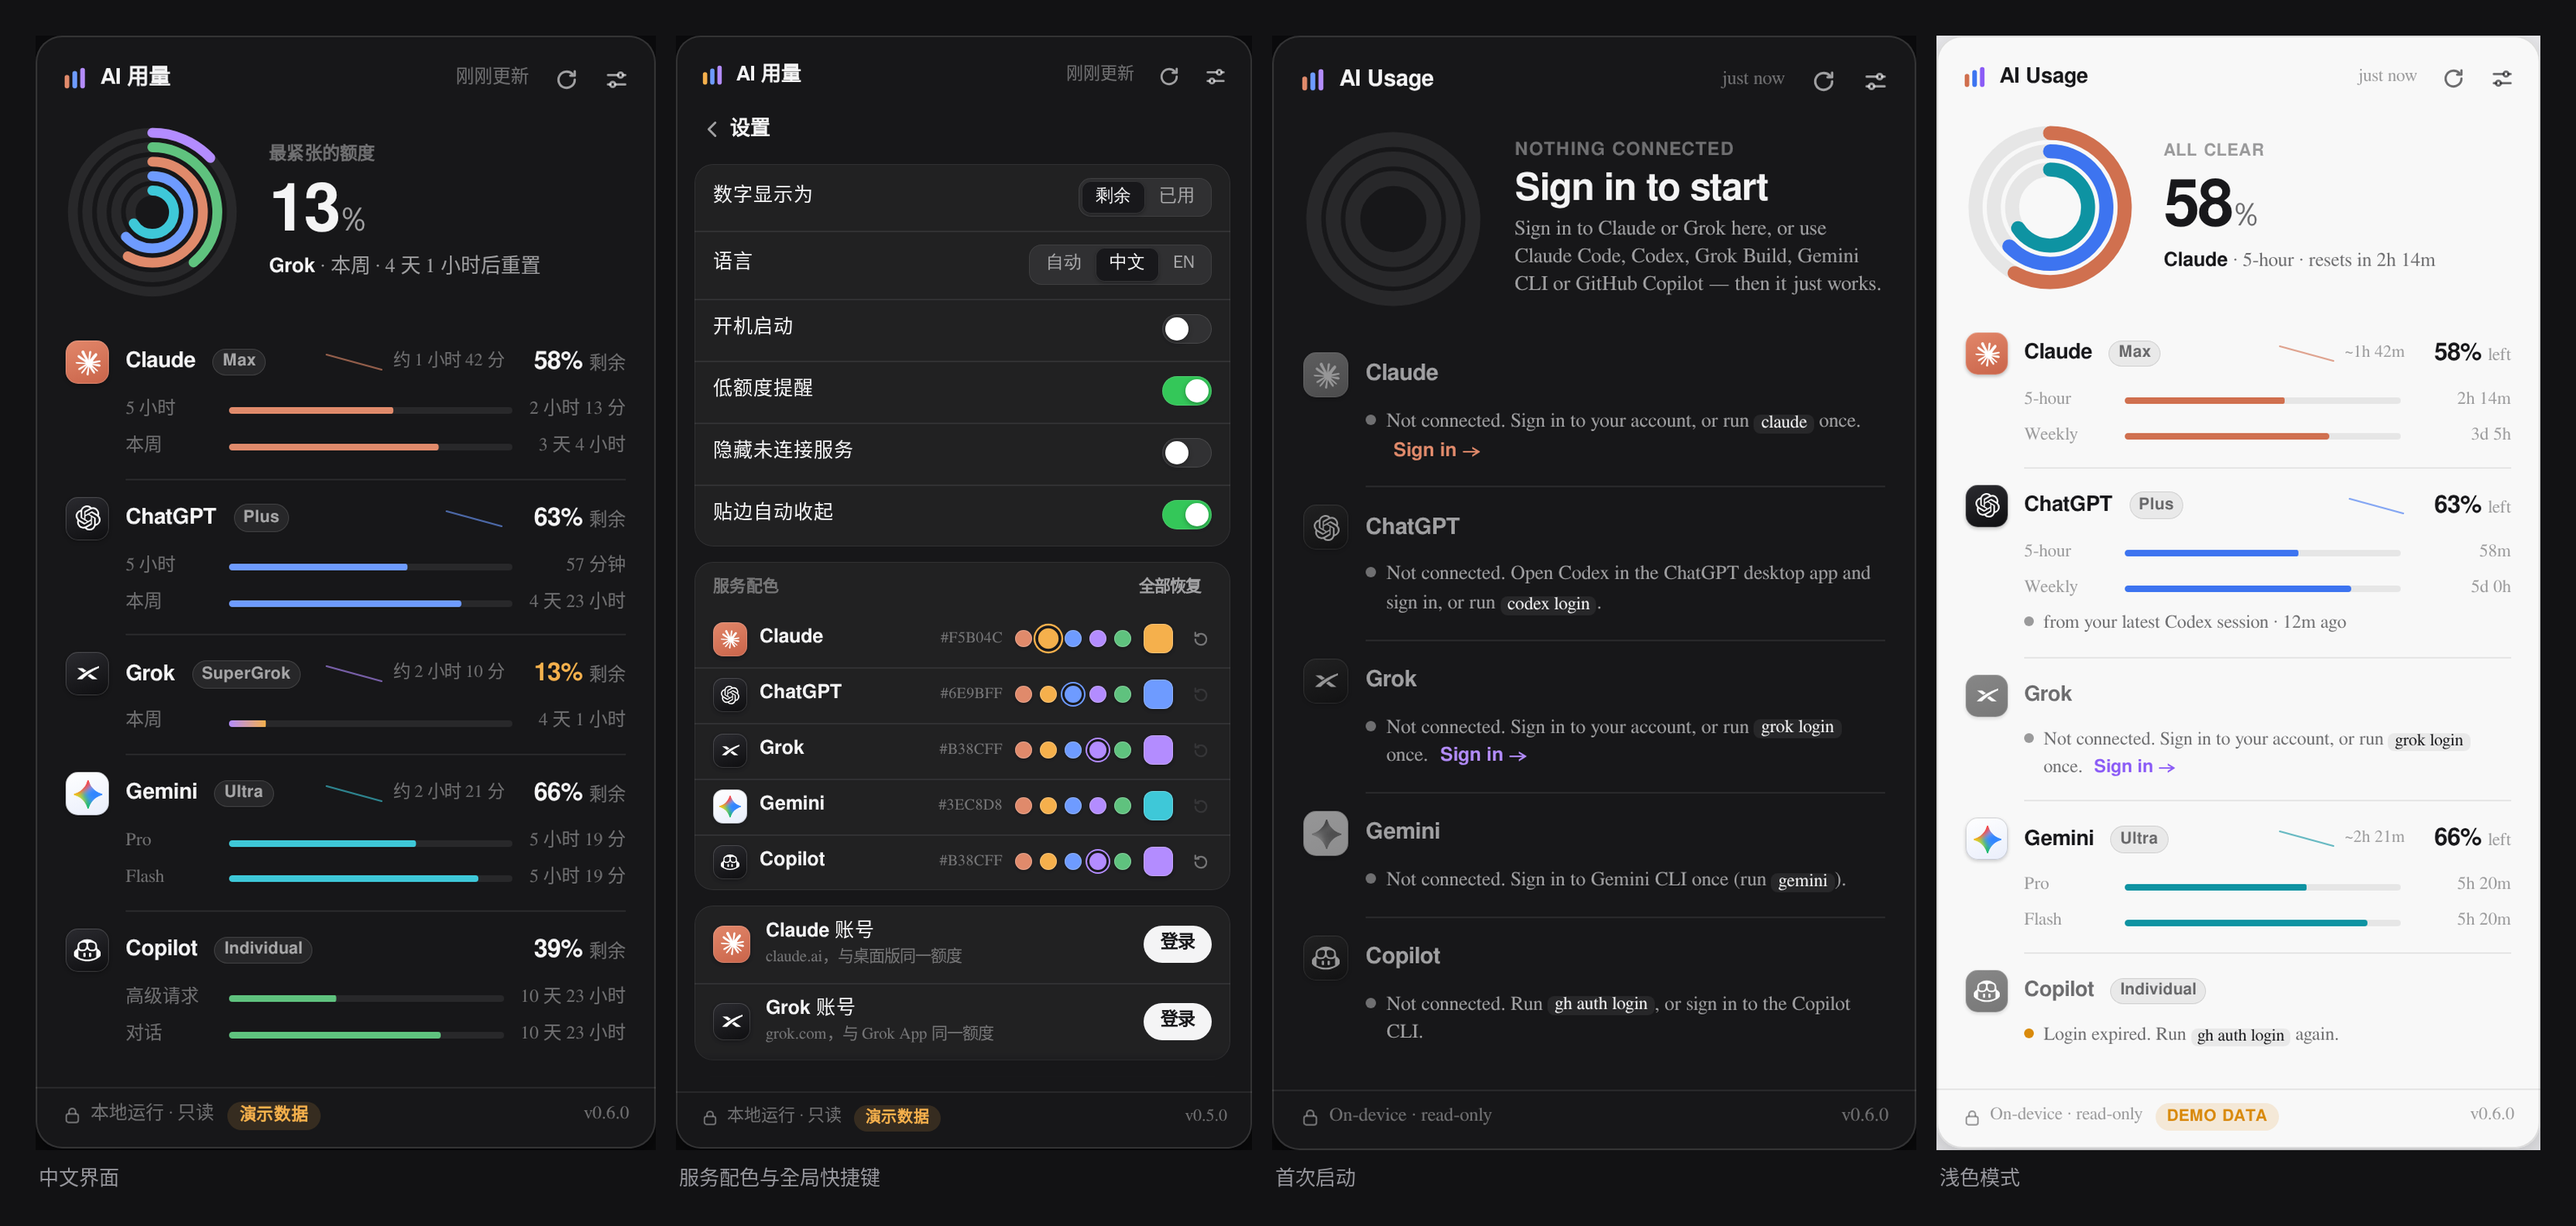
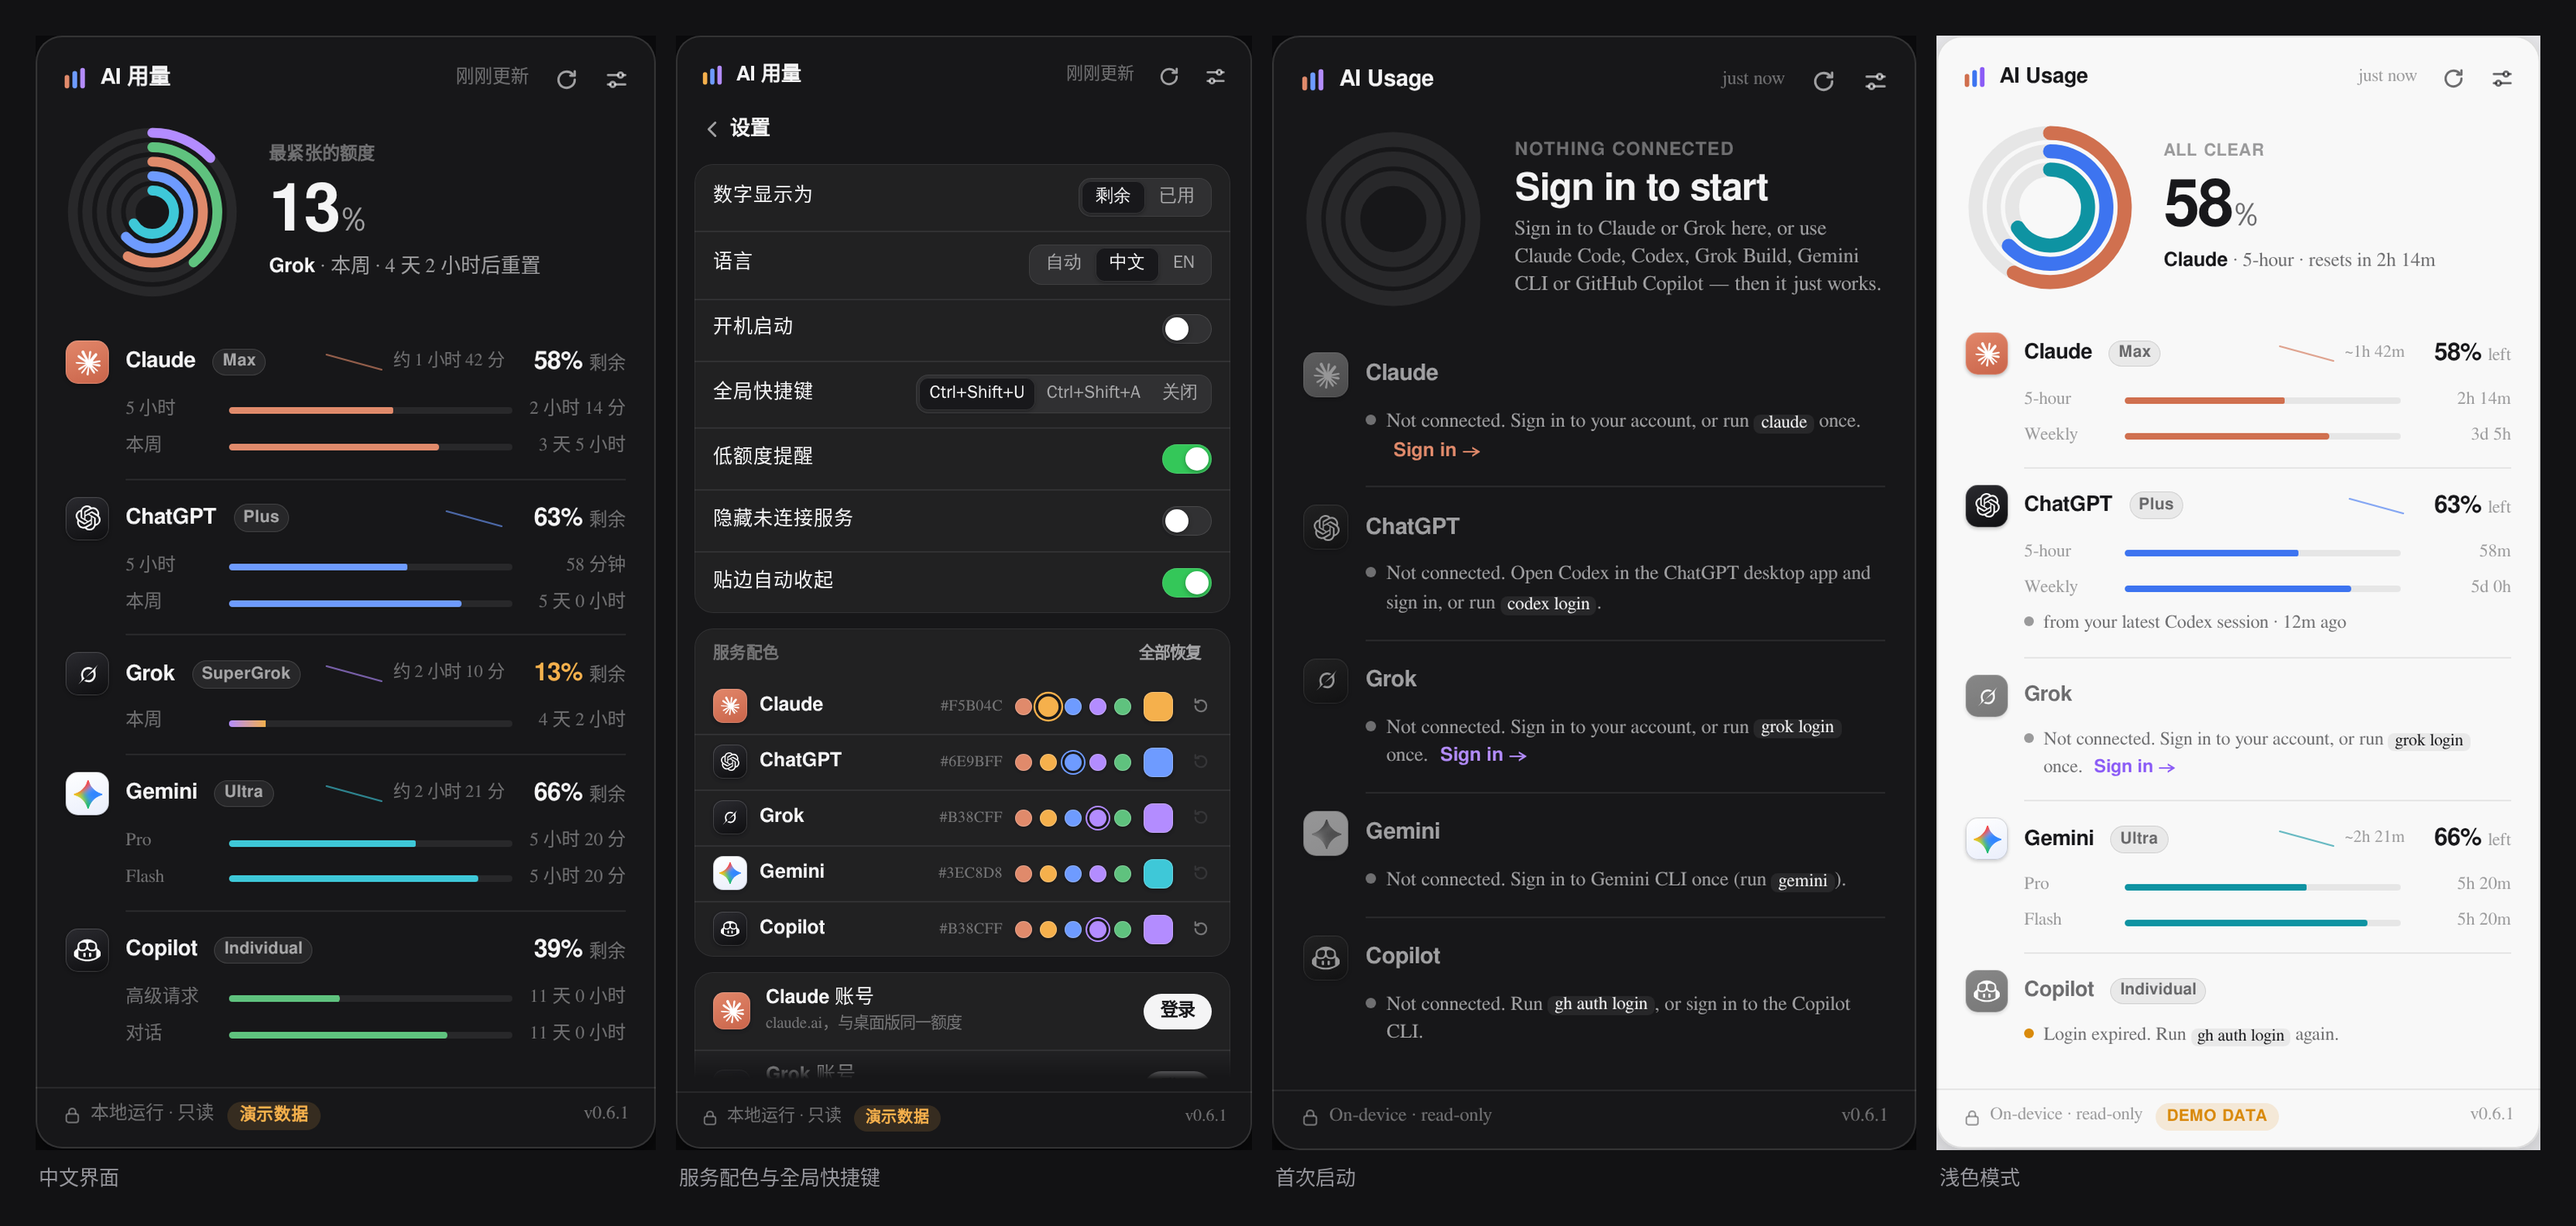
docs: the real Grok mark in the app, fresh hero shots, README corrections
- The Grok tile drew the old X favicon (src/icons/grok.png); assets/icons/grok.svg
  was an early hand-drawn "G". Both are replaced by the official grok.com mark —
  orbit ring plus diagonal slash, background removed — used as a CSS mask at 15 px
  and documented in assets/icons/ICONS.md.
- docs/hero.png, hero-light.png and states.png re-shot from src/ (preview mode) so
  they show that mark and the v0.6.1 badge instead of the X logo and v0.6.0.
- README / README_EN: drop the Homebrew `--no-quarantine` tip (the repo has no cask
  or tap), keep the quarantine tip as `xattr -cr`; drop the hardcoded unit-test
  count; say the tray bars use the picked colours on Windows only — the Linux tray
  is still a roadmap item.

diff --git a/src/styles.css b/src/styles.css
@@ -213,8 +213,8 @@ html:not(.vibrancy):not(.preview) .panel { background: var(--bg-solid); }
 .tile img { width: 17px; height: 17px; display: block; }
 .tile.claude { background: linear-gradient(160deg, #e2876a, #c9644a); --glyph: url(icons/claude.svg); }
 .tile.codex { background: linear-gradient(160deg, #2b2b30, #0e0e10); --glyph: url(icons/codex.svg); }
-.tile.grok { background: linear-gradient(160deg, #2b2b30, #0e0e10); --glyph: url(icons/grok.png); }
-.tile.grok i { width: 14px; height: 14px; }
+.tile.grok { background: linear-gradient(160deg, #2b2b30, #0e0e10); --glyph: url(icons/grok.svg); }
+.tile.grok i { width: 15px; height: 15px; }
 .tile.gemini {
   background: linear-gradient(160deg, #ffffff, #e9eefb);
   box-shadow: inset 0 0 0 0.5px rgba(0, 0, 0, 0.16), 0 1px 2px rgba(0, 0, 0, 0.18);

diff --git a/README_EN.md b/README_EN.md
@@ -34,7 +34,7 @@ Tired of hitting "usage limit reached" mid-task? AI Usage Meter puts every 5-hou
 - **Live** — re-reads every 1 to 5 minutes in the background, so usage from the web, the apps or the CLI shows up as it happens.
 - **Feels native** — real macOS popover material, follows light and dark mode, opens from the icon and tucks away when you click elsewhere; a tray flyout on Windows.
 - **Drops where you drop it, and docks to the edge** — drag it anywhere by the header or any empty spot; drop it against the left or right screen edge and it snaps there, slides off-screen when it loses focus leaving a 12 px grab handle, and slides back when you click that handle (or the menu-bar icon). "Tuck at screen edge" in Settings turns it off.
-- **Your colours** — Settings → Colors has one row per service: click the swatch for the system colour picker, or one of the presets, and the concentric rings, progress bars and accents follow at once; the Windows / Linux tray bars use the same colours. ↺ or "Reset all" restores each service's own accent.
+- **Your colours** — Settings → Colors has one row per service: click the swatch for the system colour picker, or one of the presets, and the concentric rings, progress bars and accents follow at once; the Windows tray bars use the same colours. ↺ or "Reset all" restores each service's own accent.
 - **English and 中文** — follows your system language, switchable in Settings.
 - **Calm and honest** — gentle background polling, rate-limited manual refresh; one failed request keeps the last reading (clearly marked) and it never makes numbers up.
 - **Tiny** — Tauri v2 and plain HTML/CSS/JS. No Node, no bundler.
@@ -51,11 +51,11 @@ Grab the latest build from [Releases](https://github.com/TTNAN/ai-usage-meter/re
 | Windows 10 / 11 | `.exe` or `.msi` | Per-user install, no admin needed |
 
 ```bash
-xattr -d com.apple.quarantine "/Applications/AI Usage Meter.app"
+xattr -cr "/Applications/AI Usage Meter.app"
 ```
 
 > [!TIP]
-> Installing the cask with Homebrew? Add `--no-quarantine` and this is already taken care of — no manual step needed.
+> The app is not notarised yet, so if macOS blocks the first launch, right-click → Open (or run the command above) once and it opens normally from then on.
 
 Then sign in to whichever tools you use (the rest just show "Not connected"):
 
@@ -140,7 +140,7 @@ AI_USAGE_METER_MOCK=1 cargo tauri dev   # run with demo data
 The backend comes in two pieces: what is this app's alone in `src-tauri/src/` (tray, window, commands, poller, web sign-in), and the shared core in `src-tauri/crates/ai-usage-core/` (the five providers, low-quota rules, the tray icon, the edge maths). Each project keeps a byte-identical copy of the core so that it still builds from its own zip; `./sync-core.sh` copies this project's copy into its sibling and `./sync-core.sh --check` only compares.
 
 ```bash
-cd src-tauri/crates/ai-usage-core && cargo test   # core unit tests (58)
+cd src-tauri/crates/ai-usage-core && cargo test   # core unit tests
 cd src-tauri && cargo test                        # app layer (needs Tauri's system deps)
 ```
 

diff --git a/README.md b/README.md
@@ -34,7 +34,7 @@
 - **实时跟着变** — 后台每 1 到 5 分钟自动重读，你在网页、App、命令行哪里用掉的额度都会同步显示。
 - **原生质感** — macOS 原生毛玻璃弹窗、跟随系统深浅色、点击图标弹出、失焦自动收起；Windows 上从托盘弹出。
 - **拖到哪就在哪，可贴边** — 按住标题栏或空白处可以拖到屏幕任意位置；拖到左／右边缘松手就吸附上去，失焦时平滑滑出屏幕，只留一条 12px 的小把手，点它（或点菜单栏图标）再滑回来。设置里的「贴边自动收起」可以关掉。
-- **自定义服务配色** — 「设置 → 服务配色」一行一个服务：点色块用系统取色器自选，或点旁边的预设色，同心环、进度条和强调色立刻跟着变；Windows / Linux 的托盘小条也会用同一套颜色。点 ↺ 或「全部恢复」回到各服务原本的配色。
+- **自定义服务配色** — 「设置 → 服务配色」一行一个服务：点色块用系统取色器自选，或点旁边的预设色，同心环、进度条和强调色立刻跟着变；Windows 的托盘小条也会用同一套颜色。点 ↺ 或「全部恢复」回到各服务原本的配色。
 - **中英双语** — 跟随系统语言，也可在设置里切换。
 - **安静可靠** — 后台低频轮询、手动刷新有限速；单次请求失败会保留上次读数并标注，绝不编造数字。
 - **轻** — Tauri v2 + 原生 HTML/CSS/JS，没有 Node 依赖，没有前端打包器。
@@ -51,11 +51,11 @@
 | Windows 10 / 11 | `.exe` 或 `.msi` | 双击安装，无需管理员权限 |
 
 ```bash
-xattr -d com.apple.quarantine "/Applications/AI Usage Meter.app"
+xattr -cr "/Applications/AI Usage Meter.app"
 ```
 
 > [!TIP]
-> 用 Homebrew 安装 cask 时加上 `--no-quarantine`，效果和上面这行命令相同，不必再手动执行。
+> 应用尚未公证，所以首次打开被 macOS 拦下时，右键 → 打开，或者运行上面这行命令即可；之后就能正常双击启动了。
 
 然后登录你在用的工具（用哪个登哪个，没登录的会显示「未连接」）：
 
@@ -140,7 +140,7 @@ AI_USAGE_METER_MOCK=1 cargo tauri dev   # 用演示数据运行
 后端分成两部分：每个应用自己的 `src-tauri/src/`（托盘、窗口、命令、轮询、网页登录），和两边共用的核心库 `src-tauri/crates/ai-usage-core/`（五家 provider、低额度提醒规则、托盘图标、贴边吸附）。核心库在每个项目里各存一份完全相同的副本，项目才能单独打包；改完用 `./sync-core.sh` 同步、`./sync-core.sh --check` 校验。
 
 ```bash
-cd src-tauri/crates/ai-usage-core && cargo test   # 核心库单元测试（58 项）
+cd src-tauri/crates/ai-usage-core && cargo test   # 核心库单元测试
 cd src-tauri && cargo test                        # 应用层（需要 Tauri 的系统依赖）
 ```
 

diff --git a/assets/icons/ICONS.md b/assets/icons/ICONS.md
@@ -6,12 +6,12 @@
 | --- | --- | --- |
 | `claude.svg` | Claude (Anthropic) | Simple Icons — https://cdn.simpleicons.org/claude |
 | `openai.svg` / `codex.svg` | OpenAI | Simple Icons v13 — https://cdn.jsdelivr.net/npm/simple-icons@13/icons/openai.svg |
-| `grok.png` | Grok / xAI | Official x.ai favicon, background made transparent, mark recoloured white |
+| `grok.svg` | Grok / xAI | Official grok.com favicon (`https://grok.com/images/favicon.svg`), background removed — white orbit ring with the diagonal slash |
 | `gemini.svg` | Google Gemini | Official 2025 icon, Wikimedia Commons `File:Google_Gemini_icon_2025.svg` (the four-colour spark shown on gemini.google.com) |
 | `copilot.svg` | GitHub Copilot | GitHub Primer Octicons `copilot-24.svg` — https://unpkg.com/@primer/octicons/build/svg/copilot-24.svg |
 
-In the app (`src/icons/`) the single-colour marks (Claude, OpenAI, Copilot) are
-used as CSS masks and drawn white on a small tile, so the shapes are unchanged.
+In the app (`src/icons/`) the single-colour marks (Claude, OpenAI, Grok, Copilot)
+are used as CSS masks and drawn white on a small tile, so the shapes are unchanged.
 Gemini keeps its own four colours, so it is an `<img>` on a near-white tile —
 that is what makes the spark read at 17 px. The same files live in
 `assets/icons/` for the README and for anyone re-using them.
@@ -23,8 +23,7 @@ that is what makes the spark read at 17 px. The same files live in
   `src-tauri/icons/*` (icns, ico, png) are rendered from the same design.
 - The menu-bar / tray icon is **drawn at runtime** (`src-tauri/src/tray_icon.rs`):
   three tiny bars filled to the share of each quota that is left. On macOS it
-  is a template image, so it follows light and dark menu bars; on Windows and
-  Linux each bar uses its service's accent, including a colour picked in
+  is a template image, so it follows light and dark menu bars; on Windows each bar uses its service's accent, including a colour picked in
   Settings (`set_custom_colors` → `tray_icon::render`).
 
 ## Trademark
